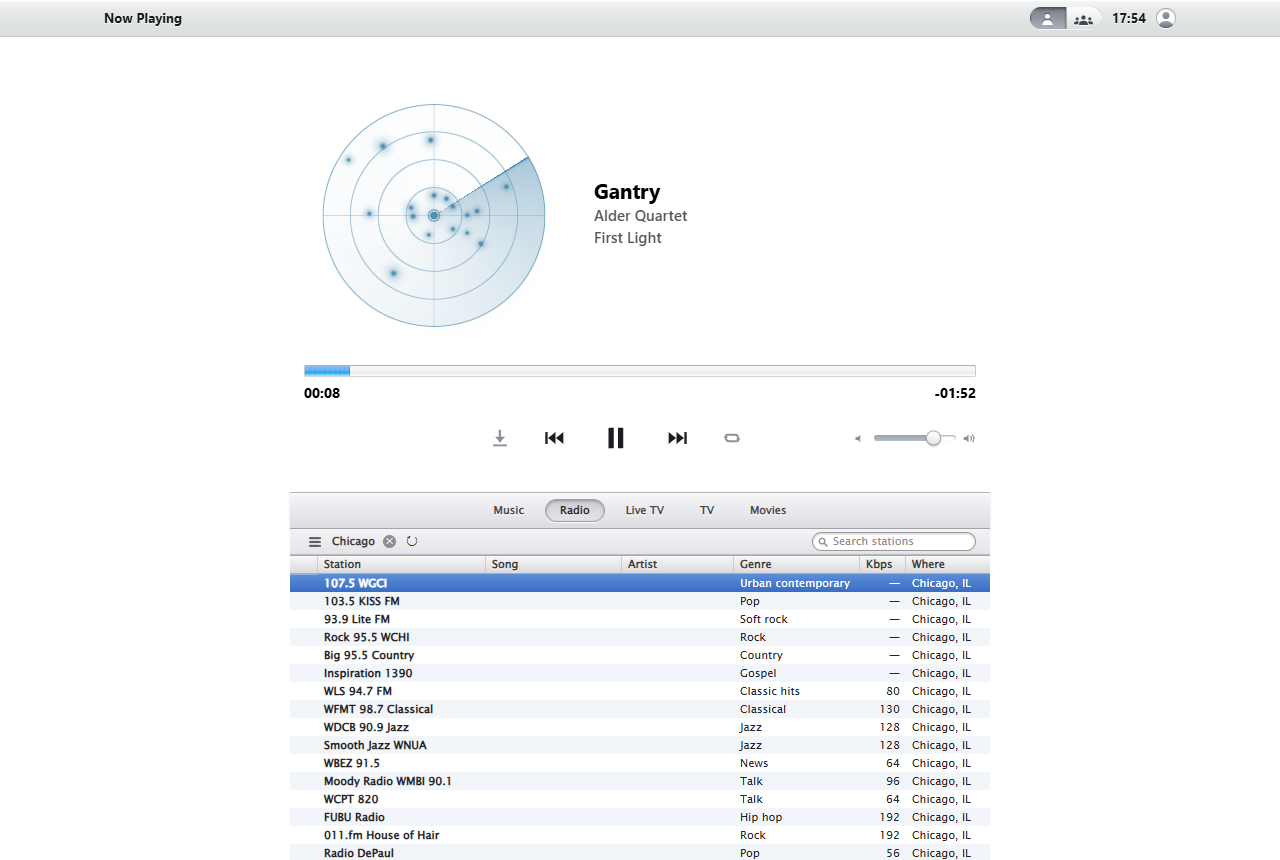
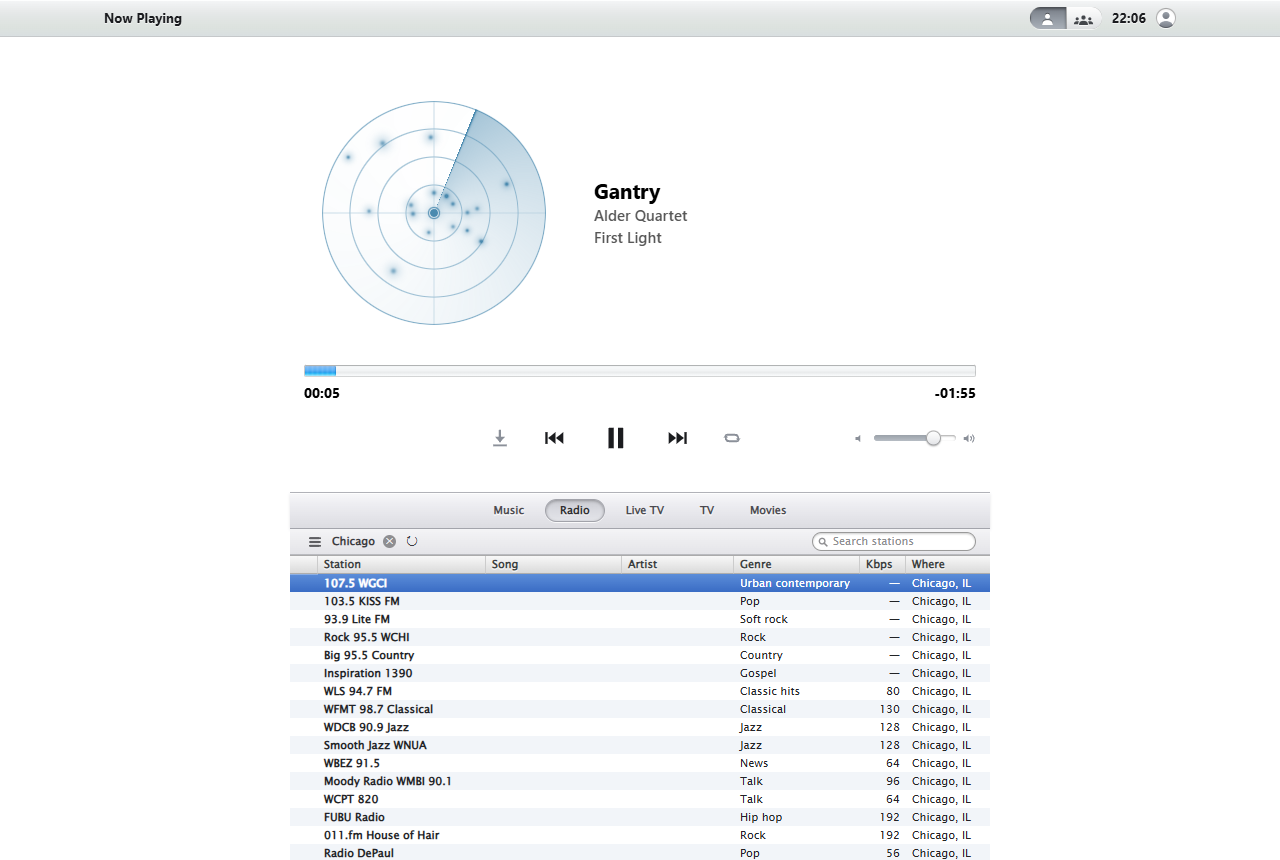
Keep the cue's timing on the station being listened to, not only in the list
The broadcast position was carried through the merge that fills the station
list and dropped in the one that serves the tuned station -- which is the only
place the position is actually shown. A station whose song arrives from its own
feed while the stream names the programme goes through that second merge, so
WGCI kept reading 00:09 against a full bar with every other part of the feature
working. The list was the path under test; the tuned station was the path being
watched.

Both merges now carry startedAt and duration, and the player's own test tunes a
station rather than reading the list, so the path a listener uses is the path
the drill exercises.

Changed region(s): [[0.25, 0.1209, 0.4375, 0.393], [0.875, 0.0, 0.9062, 0.0302], [0.25, 0.4233, 0.2812, 0.4535]]

diff --git a/music-player/index.html b/music-player/index.html
@@ -18219,7 +18219,10 @@ window.AW.startStats = function () {
             if (!t) return d;
             if (!d) return t;
             return { title: t.title, artist: t.artist, programme: d.programme || '',
-                     genre: d.genre || '', bitrate: d.bitrate || 0 };
+                     genre: d.genre || '', bitrate: d.bitrate || 0,
+                     /* The tuned station is exactly where the broadcast position is shown, so its
+                        timing must survive this merge too -- the station list is not the only reader. */
+                     startedAt: t.startedAt || null, duration: t.duration || null };
           });
         });
       metaCache[url] = { at: now, val: c ? c.val : null, pending: pr };

diff --git a/music-player/scripts/make-shell.py b/music-player/scripts/make-shell.py
@@ -5106,7 +5106,7 @@ replace('          if (t) { trackByStation[st.id] = t; delete metaMiss[st.id]; }
 replace("      var pr = icyAsk(url).then(function (d) {\n        var p = d && d.programme && d.programmeSource === 'schedule' ? String(d.programme) : '';\n        var t = d && d.title ? { title: String(d.title), artist: d.artist ? String(d.artist) : '', programme: p } :\n                p ? { title: p, artist: '', about: true, programme: p } : null;\n        metaCache[key] = { at: Date.now(), val: t };\n        return t;\n      }, function () {",
         "      var pr = icyAsk(url).then(function (d) {\n        var p = d && d.programme && d.programmeSource === 'schedule' ? String(d.programme) : '';\n        /* What the stream says about itself fills the Genre and Kbps columns the directory left\n           empty, and it outlives having no song: a station naming no track still has a genre. */\n        var gen = d && d.genre ? String(d.genre) : '';\n        var br = d ? Number(d.bitrate) || 0 : 0;\n        var t = d && d.title ? { title: String(d.title), artist: d.artist ? String(d.artist) : '', programme: p } :\n                p ? { title: p, artist: '', about: true, programme: p } :\n                (gen || br) ? { title: '', artist: '' } : null;\n        if (t) { t.genre = gen; t.bitrate = br; }\n        metaCache[key] = { at: Date.now(), val: t };\n        return t;\n      }, function () {")
 replace('          if (!tuned) return t || icyMeta(url);\n          return icyMeta(url).then(function (d) {\n            if (!t) return d;\n            if (!d || !d.programme) return t;\n            return { title: t.title, artist: t.artist, programme: d.programme };\n          });',
-        "          if (!tuned) return t || icyMeta(url);\n          return icyMeta(url).then(function (d) {\n            if (!t) return d;\n            if (!d) return t;\n            return { title: t.title, artist: t.artist, programme: d.programme || '',\n                     genre: d.genre || '', bitrate: d.bitrate || 0 };\n          });")
+        "          if (!tuned) return t || icyMeta(url);\n          return icyMeta(url).then(function (d) {\n            if (!t) return d;\n            if (!d) return t;\n            return { title: t.title, artist: t.artist, programme: d.programme || '',\n                     genre: d.genre || '', bitrate: d.bitrate || 0,\n                     /* The tuned station is exactly where the broadcast position is shown, so its\n                        timing must survive this merge too -- the station list is not the only reader. */\n                     startedAt: t.startedAt || null, duration: t.duration || null };\n          });")
 
 replace("        var gen = d && d.genre ? String(d.genre) : '';",
         "        var gen = d && d.genre && !PLACEHOLDER_GENRE.test(String(d.genre).trim()) ? String(d.genre) : '';")
